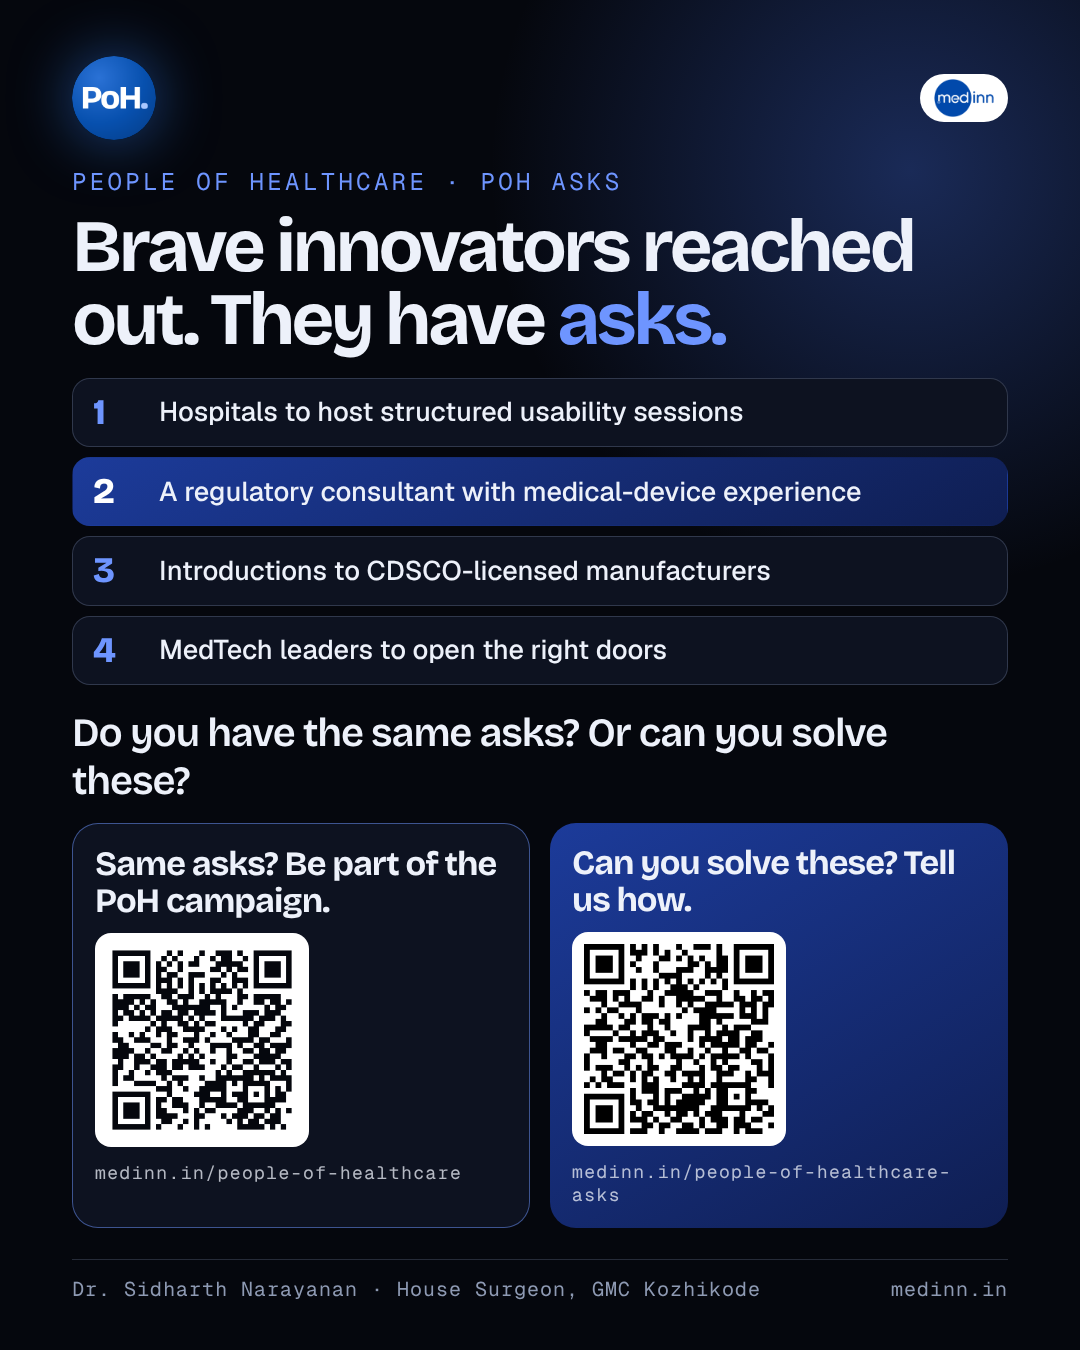
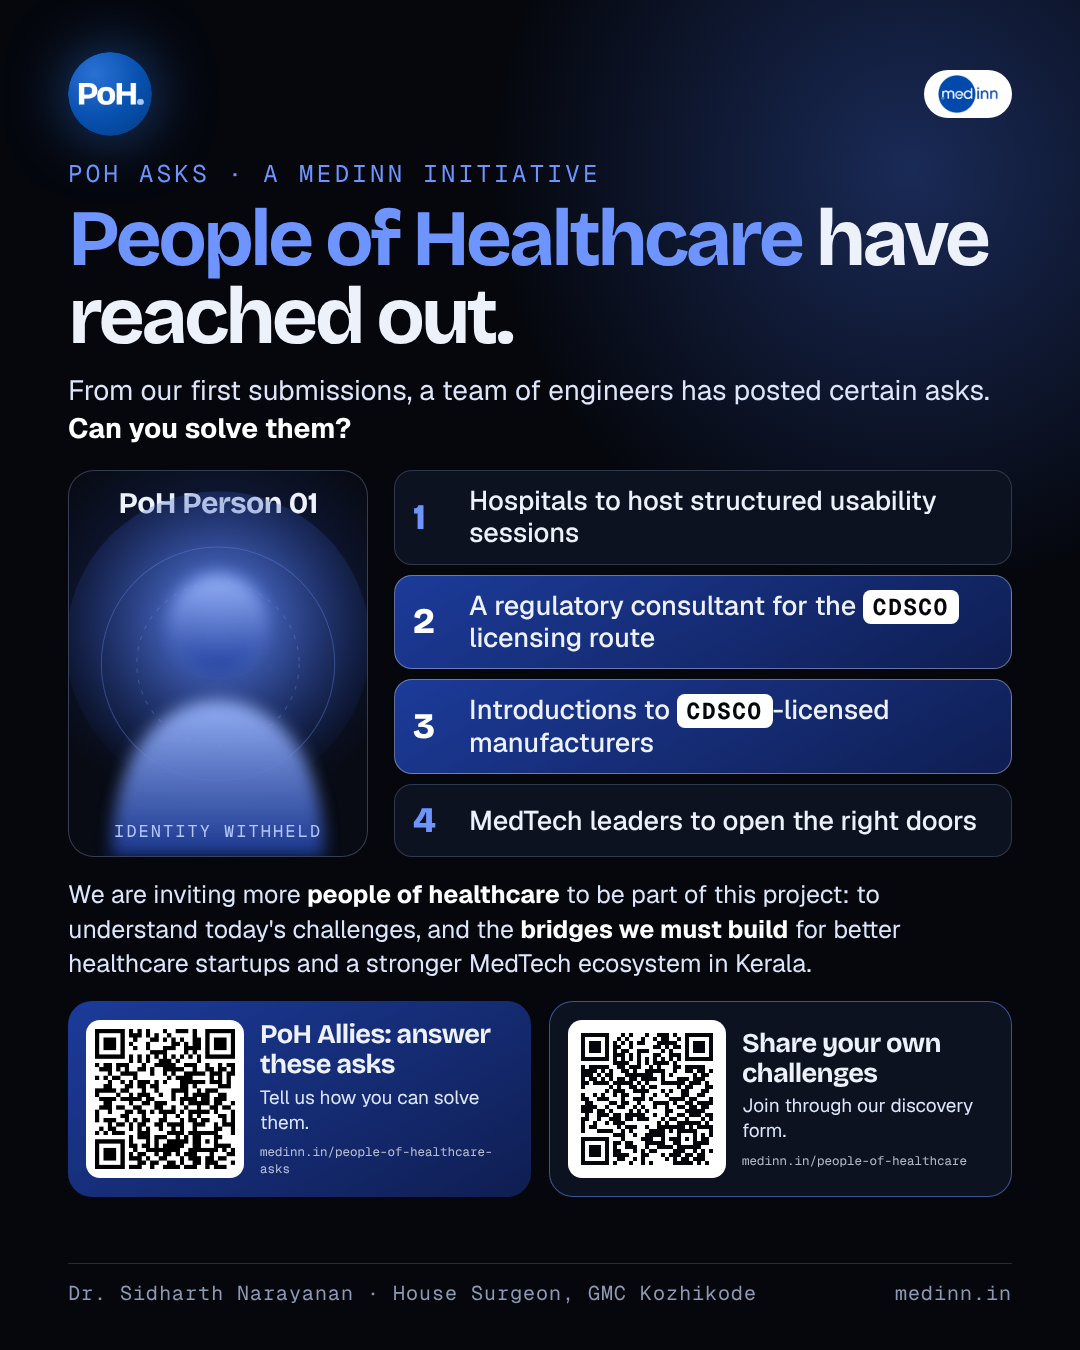
PoH: reworded Asks poster and page (People of Healthcare reached out, PoH Allies, CDSCO emphasis)
Claude-Session: https://claude.ai/code/session_01W3TbE8YKBoTijxvT3pRDYX

diff --git a/editorial/poh/asks-campaign-poster.html b/editorial/poh/asks-campaign-poster.html
@@ -22,28 +22,37 @@ li{display:grid;grid-template-columns:70px 1fr;gap:20px;align-items:center;backg
 li i{font-style:normal;font-family:B;font-weight:800;font-size:44px;color:#6E95FF;letter-spacing:-.04em}
 .big{font-family:B;font-weight:700;font-size:150px;line-height:.9;letter-spacing:-.06em;color:#6E95FF;margin-top:40px;position:relative}
 
-.s{padding:56px 72px 48px}
-.ak{font-family:B;font-weight:700;font-size:74px;line-height:.98;letter-spacing:-.05em;margin-top:14px;position:relative}.ak em{font-style:normal;color:#6E95FF}
-ul.l{list-style:none;margin-top:22px;display:grid;gap:10px;position:relative}
-ul.l li{display:grid;grid-template-columns:52px 1fr;align-items:center;gap:14px;background:#0D1220;border:1px solid rgba(190,210,255,.2);border-radius:18px;padding:12px 20px;font-size:27px;font-weight:500;line-height:1.2}
+.s{padding:52px 68px 44px}
+.ak{font-family:B;font-weight:700;font-size:80px;line-height:.97;letter-spacing:-.05em;margin-top:12px;position:relative}.ak em{font-style:normal;color:#6E95FF}
+.sub{font-size:28px;line-height:1.35;color:#DDE6FA;margin-top:16px;position:relative}
+.mid{display:grid;grid-template-columns:300px 1fr;gap:26px;margin-top:22px;position:relative;align-items:stretch}
+.sil{position:relative;border-radius:26px;overflow:hidden;background:radial-gradient(circle at 50% 38%,#16275f,#080B14 70%);border:1px solid rgba(190,210,255,.25)}
+.sil svg{position:absolute;inset:0;width:100%;height:100%}
+.sil span{position:absolute;left:0;right:0;bottom:14px;text-align:center;font-family:GM;font-size:17px;letter-spacing:.12em;text-transform:uppercase;color:#B4C8FF}
+.sil b{position:absolute;left:0;right:0;top:14px;text-align:center;font-family:B;font-size:30px;letter-spacing:-.02em}
+ul.l{list-style:none;display:grid;gap:10px}
+ul.l li{display:grid;grid-template-columns:44px 1fr;align-items:center;gap:12px;background:#0D1220;border:1px solid rgba(190,210,255,.2);border-radius:18px;padding:14px 18px;font-size:27px;font-weight:500;line-height:1.2}
 ul.l li i{font-style:normal;font-family:B;font-weight:800;font-size:36px;color:#6E95FF}
-ul.l li.f{background:linear-gradient(150deg,#1C3B9A,#0F1E52);border-color:transparent}ul.l li.f i{color:#fff}
-.q2{font-family:B;font-weight:600;font-size:40px;letter-spacing:-.03em;margin-top:24px;position:relative}
-.ctas{display:grid;grid-template-columns:1fr 1fr;gap:20px;margin-top:18px;position:relative}
-.c{background:linear-gradient(150deg,#1C3B9A,#0F1E52);border-radius:26px;padding:22px;display:flex;flex-direction:column;gap:14px}
+ul.l li.f{background:linear-gradient(150deg,#1C3B9A,#0F1E52);border-color:rgba(255,255,255,.35)}ul.l li.f i{color:#fff}
+mark{background:#fff;color:#05070D;font-family:GM;font-weight:700;font-size:23px;letter-spacing:.06em;padding:2px 10px;border-radius:8px}
+.why{font-size:25px;line-height:1.38;color:#DDE6FA;margin-top:20px;position:relative}.why b{color:#fff}
+.ctas{display:grid;grid-template-columns:1fr 1fr;gap:18px;margin-top:20px;position:relative}
+.c{background:linear-gradient(150deg,#1C3B9A,#0F1E52);border-radius:24px;padding:18px;display:grid;grid-template-columns:auto 1fr;gap:16px;align-items:center}
 .c.w{background:#0D1220;border:1px solid rgba(110,149,255,.5)}
-.c b{font-family:B;font-size:34px;letter-spacing:-.03em;line-height:1.08}
-.c p{font-size:22px;line-height:1.3;color:#DDE6FA}
-.c .qr{align-self:flex-start;background:#fff;padding:12px;border-radius:16px;line-height:0}.c .qr img{width:190px;height:190px;display:block}
-.c small{font-family:GM;font-size:18px;letter-spacing:.08em;color:rgba(237,241,250,.75)}
+.c b{font-family:B;font-size:27px;letter-spacing:-.025em;line-height:1.1;display:block}
+.c p{font-size:19px;line-height:1.3;color:#DDE6FA;margin-top:6px}
+.c .qr{background:#fff;padding:9px;border-radius:14px;line-height:0}.c .qr img{width:140px;height:140px;display:block}
+.c small{display:block;font-family:GM;font-size:12.5px;letter-spacing:0;color:rgba(237,241,250,.75);margin-top:8px;}
 .foot{margin-top:auto}
 </style></head><body><div class="s" id="p"><div class="glow"></div>
 <div class="top"><img class="mk" src="../../poh-mark.png" alt=""><img class="lg" src="../../medinn-logo.png" alt="Medinn"></div>
-<p class="k" style="margin-top:26px">People of Healthcare · PoH Asks</p>
-<h1 class="ak">Brave innovators reached out. They have <em>asks.</em></h1>
-<ul class="l"><li><i>1</i><span>Hospitals to host structured usability sessions</span></li><li class="f"><i>2</i><span>A regulatory consultant with medical-device experience</span></li><li><i>3</i><span>Introductions to CDSCO-licensed manufacturers</span></li><li><i>4</i><span>MedTech leaders to open the right doors</span></li></ul>
-<p class="q2">Do you have the same asks? Or can you solve these?</p>
+<p class="k" style="margin-top:22px">PoH Asks · A Medinn initiative</p>
+<h1 class="ak"><em>People of Healthcare</em> have reached out.</h1>
+<p class="sub">From our first submissions, a team of engineers has posted certain asks. <b style="color:#fff">Can you solve them?</b></p>
+<div class="mid"><div class="sil"><b>PoH Person 01</b><svg viewBox="0 0 300 380" preserveAspectRatio="xMidYMid slice"><defs><radialGradient id="g" cx="50%" cy="42%" r="60%"><stop offset="0" stop-color="#6E95FF" stop-opacity=".9"/><stop offset="1" stop-color="#1C3B9A" stop-opacity="0"/></radialGradient><linearGradient id="b" x1="0" y1="0" x2="0" y2="1"><stop offset="0" stop-color="#9DB8FF"/><stop offset="1" stop-color="#1C3B9A"/></linearGradient><filter id="bl" x="-30%" y="-30%" width="160%" height="160%"><feGaussianBlur stdDeviation="8"/></filter></defs><circle cx="150" cy="170" r="150" fill="url(#g)"/><circle cx="150" cy="190" r="115" fill="none" stroke="#6E95FF" stroke-opacity=".35"/><circle cx="150" cy="190" r="80" fill="none" stroke="#6E95FF" stroke-opacity=".35" stroke-dasharray="4 7"/><g filter="url(#bl)" opacity=".92"><circle cx="150" cy="150" r="48" fill="url(#b)"/><path d="M45 380 C45 270 100 226 150 226 C200 226 255 270 255 380 Z" fill="url(#b)"/></g></svg><span>Identity withheld</span></div>
+<ul class="l"><li><i>1</i><span>Hospitals to host structured usability sessions</span></li><li class="f"><i>2</i><span>A regulatory consultant for the <mark>CDSCO</mark> licensing route</span></li><li class="f"><i>3</i><span>Introductions to <mark>CDSCO</mark>-licensed manufacturers</span></li><li><i>4</i><span>MedTech leaders to open the right doors</span></li></ul></div>
+<p class="why">We are inviting more <b>people of healthcare</b> to be part of this project: to understand today's challenges, and the <b>bridges we must build</b> for better healthcare startups and a stronger MedTech ecosystem in Kerala.</p>
 <div class="ctas">
-<div class="c w"><b>Same asks? Be part of the PoH campaign.</b><div class="qr"><img src="qr-form.png" alt=""></div><small>medinn.in/people-of-healthcare</small></div>
-<div class="c"><b>Can you solve these? Tell us how.</b><div class="qr"><img src="qr-asks.png" alt=""></div><small>medinn.in/people-of-healthcare-asks</small></div></div>
+<div class="c"><div class="qr"><img src="qr-asks.png" alt=""></div><div><b>PoH Allies: answer these asks</b><p>Tell us how you can solve them.</p><small>medinn.in/people-of-healthcare-asks</small></div></div>
+<div class="c w"><div class="qr"><img src="qr-form.png" alt=""></div><div><b>Share your own challenges</b><p>Join through our discovery form.</p><small>medinn.in/people-of-healthcare</small></div></div></div>
 <div class="foot"><span>Dr. Sidharth Narayanan · House Surgeon, GMC Kozhikode</span><span>medinn.in</span></div></div></body></html>

diff --git a/people-of-healthcare-asks.html b/people-of-healthcare-asks.html
@@ -69,8 +69,8 @@
 <section class="hero"><div class="wrap">
  <p class="k">People of Healthcare &middot; A Medinn initiative</p>
  <h1 style="margin-top:16px">PoH <em>Asks.</em></h1>
- <p class="lede">What the people building healthcare and MedTech in Kerala need right now, shared without names. If you can help, tell Medinn. Medinn checks every offer and introduces you only when both sides agree.</p>
- <div class="how"><span>1 &middot; Read the asks</span><span>2 &middot; Reply privately</span><span>3 &middot; Medinn introduces, with consent</span></div>
+ <p class="lede">People of Healthcare have reached out. From our first submissions, a team of engineers has posted these asks, shared without names. We are inviting PoH Allies to answer them, and more people of healthcare to help us understand the challenges and the bridges we must build for better healthcare startups and a stronger MedTech ecosystem in Kerala. Medinn checks every offer and introduces you only when both sides agree.</p>
+ <div class="how"><span>1 &middot; Read the asks</span><span>2 &middot; PoH Allies reply privately</span><span>3 &middot; Medinn introduces, with consent</span></div>
 
  <div class="pa-person" id="p01">
   <div class="pa-who">
@@ -93,19 +93,19 @@
   </div>
   <div class="pa-list">
    <article class="pa"><div class="n">1</div><div><h3>Hospitals to host structured usability sessions</h3><p>Biomedical engineers and nurses giving structured feedback on setup, alarms and the display. No real patients are involved until the right permissions are confirmed.</p></div></article>
-   <article class="pa f"><div class="n">2</div><div><span class="fl">Featured ask</span><h3>A regulatory consultant with medical-device experience</h3><p>To confirm the device classification and the licensing route before the design is frozen. The plan is to take the complete system through CDSCO licensing as one product, built with a licensed manufacturing partner.</p></div></article>
-   <article class="pa"><div class="n">3</div><div><h3>Introductions to 2 or 3 CDSCO-licensed manufacturers</h3><p>For an honest technical review of the design and a straight talk on what a partnership would need.</p></div></article>
+   <article class="pa f"><div class="n">2</div><div><span class="fl">Featured ask</span><h3>A regulatory consultant for the CDSCO licensing route</h3><p>A consultant with medical-device experience, to confirm the device classification and the CDSCO licensing route before the design is frozen. The plan is to take the complete system through CDSCO licensing as one product, built with a licensed manufacturing partner.</p></div></article>
+   <article class="pa"><div class="n">3</div><div><h3>Introductions to CDSCO-licensed manufacturers</h3><p>For an honest technical review of the design and a straight talk on what a partnership would need.</p></div></article>
    <article class="pa"><div class="n">4</div><div><h3>Experienced MedTech leaders to open the right doors</h3><p>Device company founders, industry leaders and former hospital procurement heads who know what really decides a purchase, and will back a young team with their name and connections.</p></div></article>
   </div>
  </div>
 </div></section>
 
 <section class="drop" id="reply"><div class="wrap">
- <p class="k">Can you help?</p>
+ <p class="k">PoH Allies</p>
  <h2 style="margin-top:14px">Drop your reply here.</h2>
  <p class="lede">Your reply goes only to Medinn. It is never shown on this page, and nobody else sees who replied.</p>
  <form class="fm" id="f" novalidate>
-  <div><p style="font-size:15px;font-weight:600;margin-bottom:10px">Which asks can you help with?</p>
+  <div><p style="font-size:15px;font-weight:600;margin-bottom:10px">Which asks can you solve?</p>
    <div class="seg"><label><input type="checkbox" name="ask" value="ASK-01"> Ask 1</label><label><input type="checkbox" name="ask" value="ASK-02"> Ask 2</label><label><input type="checkbox" name="ask" value="ASK-03"> Ask 3</label><label><input type="checkbox" name="ask" value="ASK-04"> Ask 4</label></div></div>
   <div class="row">
    <label>Your name<input type="text" name="name" autocomplete="name" maxlength="200"></label>

diff --git a/editorial/poh/HANDOFF.md b/editorial/poh/HANDOFF.md
@@ -64,6 +64,9 @@ Rebuild everything: `cd editorial/poh && python3 build_poh.py && python3 build_d
 - **LIVE on main (merged 3 Nov 2026)**: https://medinn.in/people-of-healthcare-asks (not yet linked from the nav; real reply submission still to be tested once and the test row trashed in Notion). `people-of-healthcare-asks.html` (noindex, not linked) plus `api/ask-reply.js`. Layout: "PoH Person 01" glowing masked silhouette, four numbered asks (device kept generic: no syringe pump, no patent, no company), a "Drop your reply" form (ask checkboxes, name, company, how they could help, contact) that writes privately to the Notion nominations DB with Submitter type "Ask reply" (same env vars as nominate.js), plus WhatsApp/email fallback buttons. Form shows only if `/api/ask-reply` GET says configured. To add Person 02: copy the `.pa-person` block, new ask ids (ASK-05...), add checkboxes. 
 - CSS gotcha: `story.css` already defines `.asks`/`.ask`; the Asks page uses `.pa*` classes instead.
 
+## PoH Allies (owner wording, 3 Nov 2026)
+- Solvers who answer asks are called **PoH Allies**. Campaign wording: "People of Healthcare have reached out. From our first submissions, a team of engineers has posted certain asks. Can you solve them?" Plus invitation to more people of healthcare to share challenges via the discovery form (purpose: understand challenges and the bridges to build for healthcare startups and the MedTech ecosystem in Kerala). CDSCO is emphasised in asks 2 and 3. Poster: `export/poh-asks-campaign-poster.png` (silhouette of PoH Person 01 plus the 4 asks plus two QRs).
+
 ## Pitfalls learned
 - Phosphor icon font on the site only has a subset of icons (`story.css` / `index.html`). Check before using a new icon class.
 - The homepage hero animation: first visit per browser session plays the universe burst and folds back; `sessionStorage` key `medinn-intro` (use a private tab to see it again).
